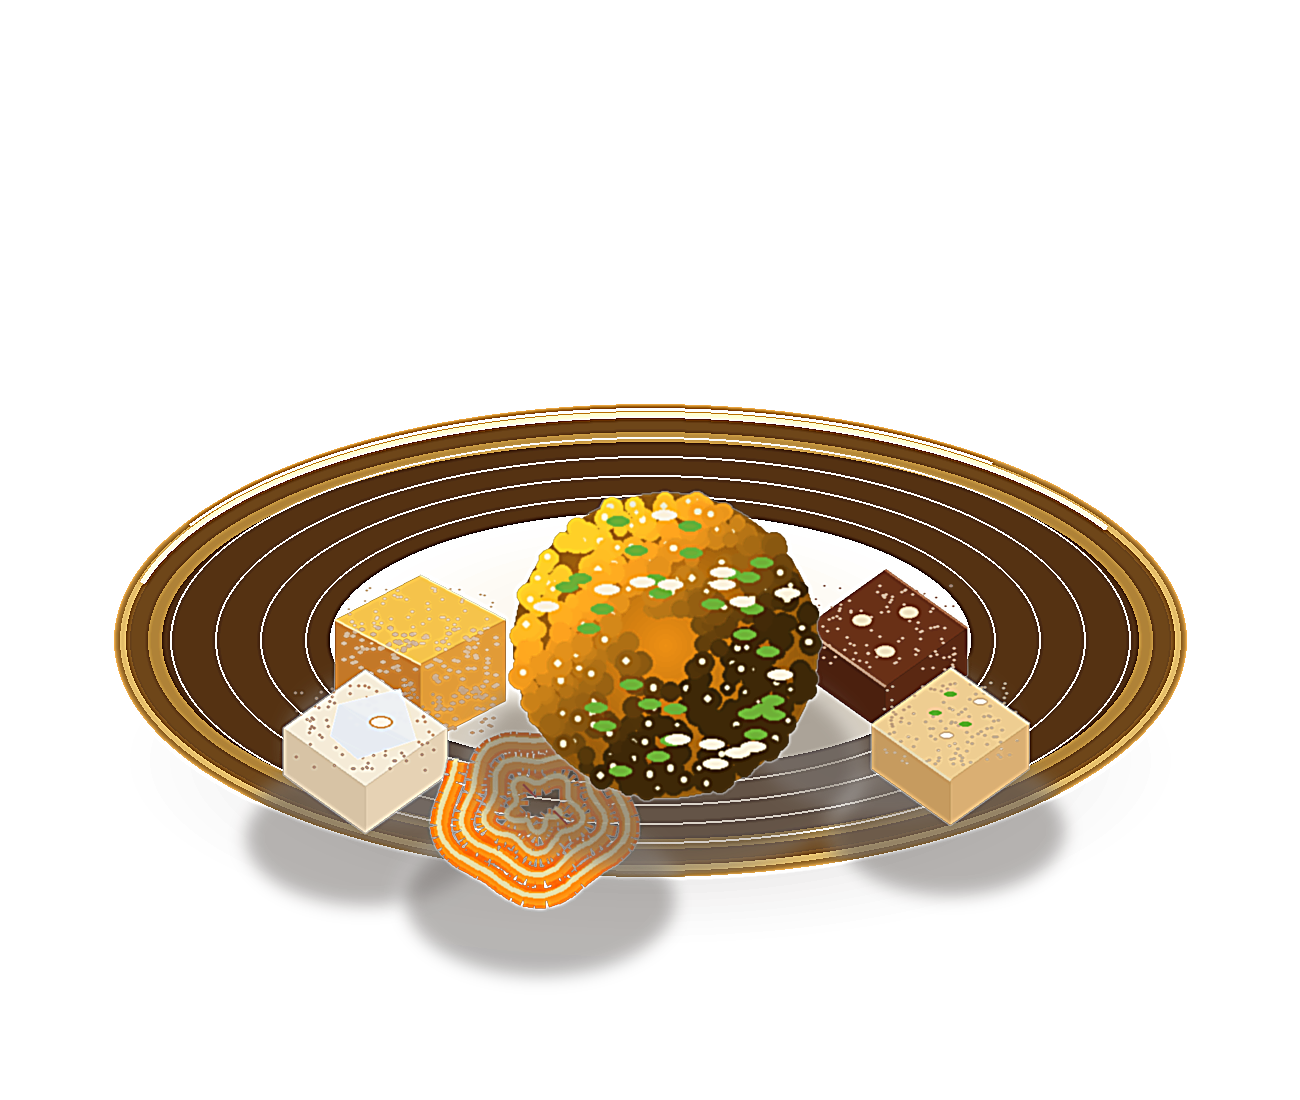
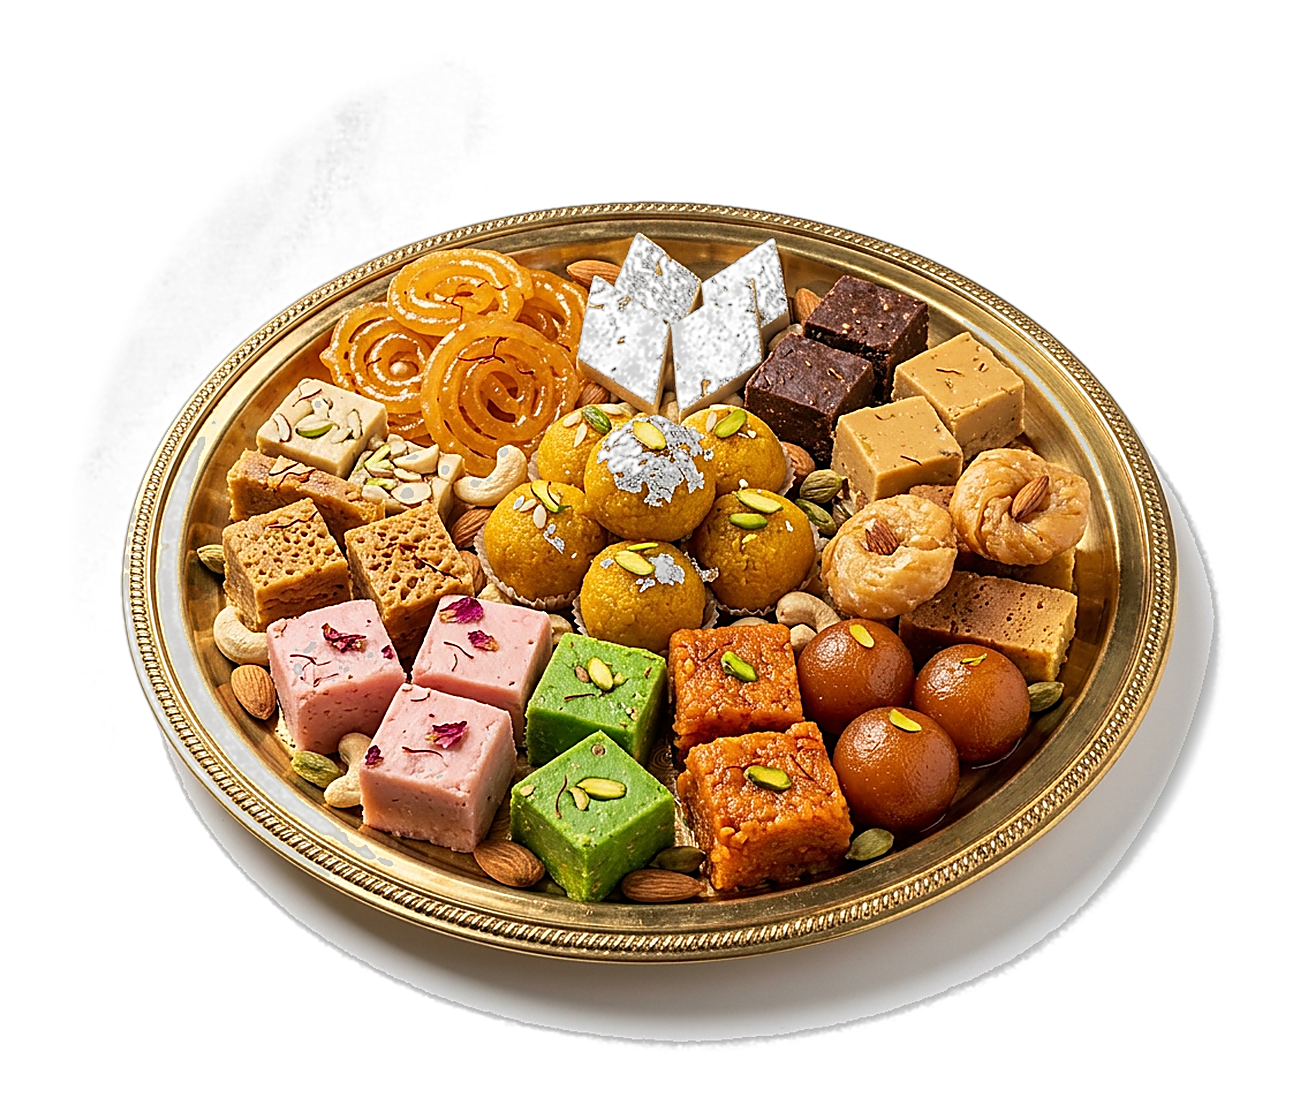
Add rich assortment of sweets to royal brass platter and expand tumbling garnishes to 12 varieties

diff --git a/src/components/CraftRitualSection.tsx b/src/components/CraftRitualSection.tsx
@@ -252,22 +252,22 @@ export const CraftRitualSection: React.FC<CraftRitualSectionProps> = ({ onOpenOr
               </div>
 
               <div className="absolute top-[8%] right-[22%] hidden rounded-full border border-[#C99732]/45 bg-[#0A241E]/90 px-3 py-1 text-[.62rem] font-medium tracking-wider text-[#F7F1E5] uppercase backdrop-blur-md shadow-lg lg:block">
-                Golden Handcrafted Laddu
+                Golden Royal Laddu & Melon Seeds
               </div>
 
               <div className="absolute bottom-[20%] right-[10%] hidden rounded-full border border-[#C99732]/45 bg-[#0A241E]/90 px-3 py-1 text-[.62rem] font-medium tracking-wider text-[#F7F1E5] uppercase backdrop-blur-md shadow-lg lg:block">
-                Boost & Horlicks Burfi
+                Pista, Rose & Boost Burfi
               </div>
 
               <div className="absolute bottom-[16%] left-[16%] hidden rounded-full border border-[#C99732]/45 bg-[#0A241E]/90 px-3 py-1 text-[.62rem] font-medium tracking-wider text-[#F7F1E5] uppercase backdrop-blur-md shadow-lg lg:block">
-                Crisp Saffron Jalebi
+                Crisp Saffron Jalebi & Dry Fruits
               </div>
             </div>
 
             {/* Bottom Platter Label & Explore Trigger */}
             <div className="mt-4 flex flex-wrap items-center justify-center gap-3 text-center max-[860px]:mt-2">
               <span className="text-[.7rem] font-normal tracking-[.24em] text-[#C99732]/90 uppercase">
-                Royal Sweet Platter · All 7 Handcrafted Varieties
+                Royal Sweet Platter · Artisanal 12 Handcrafted Varieties
               </span>
 
               <a

diff --git a/src/components/PackSection.tsx b/src/components/PackSection.tsx
@@ -9,7 +9,7 @@ interface PackSectionProps {
   onOpenOrder: (productName?: string) => void;
 }
 
-const GARNISH_IMAGES = [1, 2, 3, 4, 5, 6, 7].map((i) => `/garnishes/${i}.png`);
+const GARNISH_IMAGES = Array.from({ length: 12 }, (_, i) => `/garnishes/${i + 1}.png`);
 const ASPECT = 1.0;
 const randRange = (spread: number) => (Math.random() - 0.5) * 2 * spread;
 

diff --git a/scripts/generate_more_garnishes.py b/scripts/generate_more_garnishes.py
@@ -1,0 +1,164 @@
+import math
+import random
+from PIL import Image, ImageDraw, ImageFilter
+
+def generate_more_garnishes():
+    print("Generating expanded garnishes 7 to 14...")
+
+    # ---------------------------------------------------------------
+    # 7. GULAB JAMUN (Glossy dark golden-amber syrup sphere)
+    # ---------------------------------------------------------------
+    img7 = Image.new('RGBA', (320, 320), (0, 0, 0, 0))
+    d7 = ImageDraw.Draw(img7)
+    cx, cy, radius = 160, 160, 120
+    
+    # Deep warm brown-amber sphere with rich glossy syrup shading
+    for r in range(radius, 0, -3):
+        f = 1.0 - (r / radius) * 0.5
+        d7.ellipse([cx - r, cy - r, cx + r, cy + r],
+                   fill=(int(95 * f + 25 * (1 - f)), int(45 * f + 10 * (1 - f)), int(18 * f + 5 * (1 - f)), 255))
+    
+    # Specular glossy syrup highlights
+    d7.ellipse([cx - 55, cy - 65, cx - 15, cy - 25], fill=(255, 230, 180, 160))
+    d7.ellipse([cx - 45, cy - 55, cx - 25, cy - 35], fill=(255, 255, 240, 220))
+    # Cardamom & saffron specks
+    rng = random.Random(707)
+    for _ in range(18):
+        px = cx + rng.uniform(-70, 70)
+        py = cy + rng.uniform(-70, 70)
+        d7.ellipse([px - 3, py - 3, px + 3, py + 3], fill=(40, 60, 30, 200)) # cardamom
+    for _ in range(8):
+        sx = cx + rng.uniform(-60, 60)
+        sy = cy + rng.uniform(-60, 60)
+        d7.line([sx, sy, sx + rng.uniform(8, 16), sy + rng.uniform(-4, 6)], fill=(210, 45, 20, 230), width=2) # saffron
+    
+    img7 = img7.filter(ImageFilter.GaussianBlur(0.7))
+    img7.save('public/garnishes/7.png', 'PNG')
+    print("Saved 7. Gulab Jamun")
+
+    # ---------------------------------------------------------------
+    # 8. PISTA BURFI (Pastel emerald diamond with crushed pistachios)
+    # ---------------------------------------------------------------
+    img8 = Image.new('RGBA', (320, 320), (0, 0, 0, 0))
+    d8 = ImageDraw.Draw(img8)
+    # Isometric Diamond
+    top = (160, 45)
+    right = (275, 130)
+    bottom = (160, 275)
+    left = (45, 190)
+    center = (160, 160)
+    
+    # Top face
+    d8.polygon([top, right, center, left], fill=(135, 190, 120, 255))
+    # Right beveled side
+    d8.polygon([center, right, (275, 155), (160, 290)], fill=(100, 150, 90, 255))
+    # Left beveled side
+    d8.polygon([left, center, (160, 290), (45, 215)], fill=(115, 165, 105, 255))
+    
+    # Pistachio nut granules
+    rng = random.Random(808)
+    for _ in range(80):
+        nx = rng.uniform(70, 250)
+        ny = rng.uniform(65, 175)
+        d8.ellipse([nx - 4, ny - 3, nx + 4, ny + 3], fill=(60, 115, 45, 220))
+    # Slivered almonds on top
+    for _ in range(12):
+        ax = rng.uniform(90, 230)
+        ay = rng.uniform(75, 160)
+        d8.ellipse([ax - 8, ay - 3, ax + 8, ay + 3], fill=(250, 240, 220, 240))
+        
+    img8 = img8.filter(ImageFilter.GaussianBlur(0.6))
+    img8.save('public/garnishes/8.png', 'PNG')
+    print("Saved 8. Pista Burfi")
+
+    # ---------------------------------------------------------------
+    # 9. CARROT BURFI (Vibrant garden carrot-orange diamond)
+    # ---------------------------------------------------------------
+    img9 = Image.new('RGBA', (320, 320), (0, 0, 0, 0))
+    d9 = ImageDraw.Draw(img9)
+    d9.polygon([top, right, center, left], fill=(235, 115, 40, 255))
+    d9.polygon([center, right, (275, 155), (160, 290)], fill=(185, 80, 25, 255))
+    d9.polygon([left, center, (160, 290), (45, 215)], fill=(205, 95, 30, 255))
+    
+    # Grated carrot grain & cashews
+    rng = random.Random(909)
+    for _ in range(110):
+        cx1 = rng.uniform(65, 255)
+        cy1 = rng.uniform(60, 180)
+        d9.ellipse([cx1 - 3, cy1 - 2, cx1 + 3, cy1 + 2], fill=(255, 145, 60, 220))
+    for _ in range(10):
+        kx = rng.uniform(85, 235)
+        ky = rng.uniform(70, 165)
+        d9.ellipse([kx - 9, ky - 5, kx + 9, ky + 5], fill=(245, 235, 205, 240))
+        
+    img9 = img9.filter(ImageFilter.GaussianBlur(0.6))
+    img9.save('public/garnishes/9.png', 'PNG')
+    print("Saved 9. Carrot Burfi")
+
+    # ---------------------------------------------------------------
+    # 10. ROSE BURFI (Soft floral pink diamond with rose petals)
+    # ---------------------------------------------------------------
+    img10 = Image.new('RGBA', (320, 320), (0, 0, 0, 0))
+    d10 = ImageDraw.Draw(img10)
+    d10.polygon([top, right, center, left], fill=(240, 165, 185, 255))
+    d10.polygon([center, right, (275, 155), (160, 290)], fill=(195, 120, 145, 255))
+    d10.polygon([left, center, (160, 290), (45, 215)], fill=(215, 140, 165, 255))
+    
+    # Edible dried rose petals
+    rng = random.Random(1010)
+    for _ in range(16):
+        rx1 = rng.uniform(80, 240)
+        ry1 = rng.uniform(70, 170)
+        d10.ellipse([rx1 - 7, ry1 - 4, rx1 + 7, ry1 + 4], fill=(160, 35, 65, 230))
+    for _ in range(14):
+        ax = rng.uniform(90, 230)
+        ay = rng.uniform(75, 160)
+        d10.ellipse([ax - 7, ay - 3, ax + 7, ay + 3], fill=(110, 170, 85, 220)) # pistachio fleck
+        
+    img10 = img10.filter(ImageFilter.GaussianBlur(0.6))
+    img10.save('public/garnishes/10.png', 'PNG')
+    print("Saved 10. Rose Burfi")
+
+    # ---------------------------------------------------------------
+    # 11. WHOLE ROASTED CASHEW NUT (Kidney curved, golden toast)
+    # ---------------------------------------------------------------
+    img11 = Image.new('RGBA', (320, 320), (0, 0, 0, 0))
+    d11 = ImageDraw.Draw(img11)
+    
+    # Draw curved crescent cashew
+    for r in range(80, 0, -2):
+        frac = r / 80.0
+        c_fill = (int(245 - 20 * frac), int(225 - 40 * frac), int(175 - 70 * frac), 255)
+        d11.arc([60 + r * 0.4, 70 + r * 0.3, 260 - r * 0.4, 250 - r * 0.3], 20, 260, fill=c_fill, width=22)
+    # Toast marks
+    d11.arc([90, 95, 230, 225], 60, 180, fill=(180, 115, 45, 180), width=8)
+    d11.arc([110, 115, 210, 205], 90, 160, fill=(145, 85, 30, 200), width=5)
+    
+    img11 = img11.filter(ImageFilter.GaussianBlur(0.8))
+    img11.save('public/garnishes/11.png', 'PNG')
+    print("Saved 11. Whole Roasted Cashew")
+
+    # ---------------------------------------------------------------
+    # 12. WHOLE CALIFORNIA ALMOND (Oval pointed, golden brown skin)
+    # ---------------------------------------------------------------
+    img12 = Image.new('RGBA', (320, 320), (0, 0, 0, 0))
+    d12 = ImageDraw.Draw(img12)
+    
+    # Pointed almond shape
+    points = [
+        (160, 45), (210, 95), (235, 165), (220, 235),
+        (160, 275), (100, 235), (85, 165), (110, 95)
+    ]
+    d12.polygon(points, fill=(165, 95, 45, 255))
+    # Inner woodgrain almond striations
+    for off in range(-35, 40, 12):
+        d12.line([(160 + off * 0.6, 75), (160 + off, 245)], fill=(125, 65, 25, 180), width=3)
+    # Specular rim
+    d12.line([(110, 105), (85, 165), (105, 235)], fill=(210, 145, 85, 160), width=4)
+    
+    img12 = img12.filter(ImageFilter.GaussianBlur(0.8))
+    img12.save('public/garnishes/12.png', 'PNG')
+    print("Saved 12. Whole Almond")
+
+if __name__ == '__main__':
+    generate_more_garnishes()

diff --git a/scripts/process_royal_platter.py b/scripts/process_royal_platter.py
@@ -1,0 +1,79 @@
+from PIL import Image, ImageFilter, ImageDraw
+import numpy as np
+
+def process_royal_platter():
+    input_path = r"C:\Users\muthu\.gemini\antigravity\brain\53599524-1e90-4507-9ca7-00bb3cc8156b\royal_brass_sweet_platter_1793195738853.jpg"
+    img = Image.open(input_path).convert("RGBA")
+    w, h = img.size
+    arr = np.array(img, dtype=np.float32)
+
+    # Estimate background from corners
+    corners = np.vstack([arr[0:20, 0:20], arr[0:20, -20:], arr[-20:, 0:20], arr[-20:, -20:]])
+    bg_color = np.median(corners.reshape(-1, 4), axis=0)[:3]
+    print("Detected background color:", bg_color)
+
+    # Color difference from background
+    diff = np.linalg.norm(arr[:, :, :3] - bg_color, axis=2)
+
+    # Threshold with smooth transition
+    low_thresh = 18.0
+    high_thresh = 36.0
+    alpha = np.clip((diff - low_thresh) / (high_thresh - low_thresh), 0.0, 1.0) * 255.0
+
+    # Also clean up stray pixels far outside platter ellipse
+    cy, cx = h / 2, w / 2
+    y, x = np.ogrid[:h, :w]
+    # Elliptical distance
+    ry, rx = h * 0.46, w * 0.49
+    dist_ellipse = np.sqrt(((x - cx) / rx) ** 2 + ((y - cy) / ry) ** 2)
+    outer_falloff = np.clip(1.0 - (dist_ellipse - 0.98) / 0.04, 0.0, 1.0)
+    alpha = alpha * outer_falloff
+
+    # Smooth the alpha mask
+    mask_img = Image.fromarray(alpha.astype(np.uint8), mode="L")
+    mask_img = mask_img.filter(ImageFilter.GaussianBlur(1.2))
+
+    # Decontaminate edge fringe
+    edge_mask = np.array(mask_img, dtype=np.float32) / 255.0
+    rgb = arr[:, :, :3].copy()
+    # Where edge is semi-transparent, neutralize toward platter tone
+    fringe = (edge_mask > 0.05) & (edge_mask < 0.95)
+    rgb[fringe] = rgb[fringe] * 0.9
+
+    isolated = Image.fromarray(np.dstack([rgb.astype(np.uint8), mask_img]), mode="RGBA")
+
+    # Composite onto standard 1300x1100 tray canvas
+    canvas_w, canvas_h = 1300, 1100
+    canvas = Image.new("RGBA", (canvas_w, canvas_h), (0, 0, 0, 0))
+    d = ImageDraw.Draw(canvas)
+
+    # Subtle warm contact ground shadow
+    tray_cx, tray_cy = canvas_w // 2, canvas_h // 2 + 50
+    shadow_rx, shadow_ry = 540, 220
+    for r in range(shadow_rx, 0, -20):
+        frac = 1.0 - (r / shadow_rx)
+        s_alpha = int(90 * (frac ** 1.5))
+        d.ellipse([tray_cx - r, tray_cy - int(r * (shadow_ry / shadow_rx)),
+                   tray_cx + r, tray_cy + int(r * (shadow_ry / shadow_rx))],
+                  fill=(15, 8, 4, s_alpha))
+
+    # Resize platter to fit gracefully on canvas
+    target_w = 1180
+    target_h = int(h * target_w / w)
+    resized_platter = isolated.resize((target_w, target_h), Image.Resampling.LANCZOS)
+
+    # Paste platter centered
+    paste_x = (canvas_w - target_w) // 2
+    paste_y = (canvas_h - target_h) // 2 + 10
+    canvas.paste(resized_platter, (paste_x, paste_y), resized_platter)
+
+    # Sharpen slightly for crisp specular highlights on brass and sweets
+    canvas = canvas.filter(ImageFilter.UnsharpMask(radius=1.8, percent=115, threshold=3))
+
+    out_path = r"d:\Bakery\Website\public\sweet_tray.png"
+    canvas.save(out_path, "PNG", optimize=True)
+    import os
+    print(f"Saved {out_path} ({os.path.getsize(out_path) / 1024:.1f} KB)")
+
+if __name__ == "__main__":
+    process_royal_platter()

diff --git a/scripts/verify_platter_and_garnishes.py b/scripts/verify_platter_and_garnishes.py
@@ -1,0 +1,53 @@
+import time
+import os
+from playwright.sync_api import sync_playwright
+
+def verify_platter_and_garnishes():
+    artifacts_dir = r"C:\Users\muthu\.gemini\antigravity\brain\53599524-1e90-4507-9ca7-00bb3cc8156b"
+
+    with sync_playwright() as p:
+        b = p.chromium.launch(headless=True)
+        page = b.new_page(viewport={"width": 1440, "height": 900})
+
+        console_errors = []
+        page.on("console", lambda msg: console_errors.append(msg.text) if msg.type == "error" else None)
+        failed_requests = []
+        page.on("requestfailed", lambda req: failed_requests.append(req.url))
+
+        page.goto("http://localhost:3000", wait_until="networkidle")
+        time.sleep(1)
+
+        # Skip intro
+        page.evaluate("() => { const b = document.querySelector('button'); if(b) b.click(); }")
+        time.sleep(1)
+
+        # 1. Hero section with new platter
+        hero_shot = os.path.join(artifacts_dir, "platter_01_hero.png")
+        page.screenshot(path=hero_shot)
+        print("Captured Hero platter:", hero_shot)
+
+        # 2. Craft Ritual Section with platter
+        craft_sec = page.locator("#craft")
+        craft_sec.scroll_into_view_if_needed()
+        time.sleep(1)
+        craft_shot = os.path.join(artifacts_dir, "platter_02_craft_ritual.png")
+        page.screenshot(path=craft_shot)
+        print("Captured Craft Ritual platter:", craft_shot)
+
+        # 3. PackSection with falling garnishes
+        pack_sec = page.locator("#pack")
+        pack_sec.scroll_into_view_if_needed()
+        time.sleep(1.5)
+        pack_shot = os.path.join(artifacts_dir, "platter_03_falling_garnishes.png")
+        page.screenshot(path=pack_shot)
+        print("Captured Falling Garnishes:", pack_shot)
+
+        print("Console errors:", console_errors)
+        print("Failed requests:", failed_requests)
+        assert len(failed_requests) == 0, f"Failed requests: {failed_requests}"
+        print("[SUCCESS] Platter and garnishing verified cleanly!")
+
+        b.close()
+
+if __name__ == "__main__":
+    verify_platter_and_garnishes()

diff --git a/scripts/test_modal_click.py b/scripts/test_modal_click.py
@@ -23,3 +23,4 @@ with sync_playwright() as p:
         print("Modal title:", modal.locator("#sweet-modal-title").inner_text())
 
     b.close()
+
